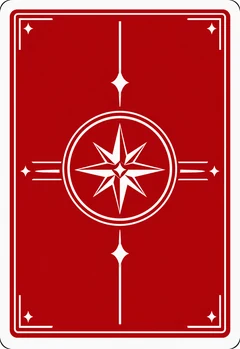
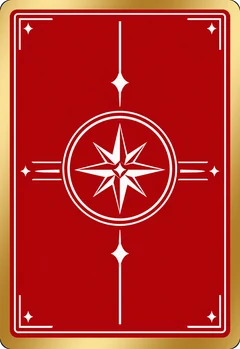
Gold card frames, black card fronts, artwork in the 100-player grid
- Card back: outer white frame recoloured to a metallic gold gradient
  (flood fill from the edge, so inner ornaments stay white);
  scripts/gold-card-back.py regenerates the asset
- Card fronts: black face with a gold gradient frame, ivory ink for
  spades/clubs, brighter red for hearts/diamonds, gold J/Q/K letters
- Arena tiles show the new card back on their mini cards

Claude-Session: https://claude.ai/code/session_01T5Gb8y2puC6CRhvBP3Cwhj

Changed region(s): [[0.0, 0.0, 1.0, 1.0]]

diff --git a/src/styles.css b/src/styles.css
@@ -7,8 +7,11 @@
   --gold: #f5c84c;
   --red: #d8323c;
   --cyan: #4fd6ff;
-  --card-face: #fbfaf5;
-  --card-ink: #16181d;
+  /* Card fronts: black face, gold frame (matches the back's frame), light ink. */
+  --card-face: #0c0c0e;
+  --card-ink: #f3ecda;
+  --card-red: #ff4b57;
+  --gold-frame: linear-gradient(135deg, #fae296 0%, #b07e26 30%, #f6d27a 55%, #a8781f 80%, #f2d48a 100%);
   /* Five board cards + gaps must fit a 320px wide screen. */
   --cw: min(16.5vw, 74px, 9.5dvh);
   --ch: calc(var(--cw) * 1.4);
@@ -368,12 +371,22 @@ body {
 .card-front {
   /* Shows when .card-inner is at rotateY(180deg). */
   transform: rotateY(180deg);
-  background: var(--card-face);
+  border: calc(var(--cw) * 0.045) solid transparent;
+  background:
+    radial-gradient(ellipse at 50% 35%, #1c1c20, var(--card-face) 70%) padding-box,
+    var(--gold-frame) border-box;
   color: var(--card-ink);
   visibility: hidden;
 }
 .card-front.is-red {
-  color: var(--red);
+  color: var(--card-red);
+}
+.card-front .pip.face {
+  /* J / Q / K letters in gold. */
+  background: var(--gold-frame);
+  -webkit-background-clip: text;
+  background-clip: text;
+  color: transparent;
 }
 .corner {
   position: absolute;
@@ -951,8 +964,7 @@ body {
   width: 22%;
   height: 34%;
   border-radius: 1.5px;
-  background: #b3212c;
-  box-shadow: 0 0 0 1px #fbfaf5;
+  background: url('./assets/card-back.webp') center / 100% 100% no-repeat;
 }
 .tile-cards::before {
   left: 26%;

diff --git a/scripts/gold-card-back.py b/scripts/gold-card-back.py
@@ -1,0 +1,38 @@
+"""Make the card back asset: gold outer frame, transparent rounded corners, 240px WebP.
+
+Usage: python3 scripts/gold-card-back.py <source.png> src/assets/card-back.webp <preview.png>
+Needs Pillow and numpy.
+"""
+import sys
+import numpy as np
+from PIL import Image, ImageDraw, ImageFilter
+src, out_webp, out_png = sys.argv[1:4]
+im = Image.open(src).convert('RGB')
+W, H = im.size
+a = np.asarray(im).astype(np.float32)
+R = 42
+# Outer frame = light region connected to the image edge (inner ornaments are separated by red).
+light = ((a.min(axis=2) > 150) * 255).astype(np.uint8)
+corner = Image.new('L', (W, H), 255)
+ImageDraw.Draw(corner).rounded_rectangle([0, 0, W - 1, H - 1], radius=R, fill=0)
+light = np.maximum(light, np.asarray(corner)).copy()
+fill = Image.new('L', (W, H))
+fill.paste(Image.fromarray(light))
+ImageDraw.floodfill(fill, (1, H // 2), 128)
+frame = np.array(fill) == 128
+frame = np.array(Image.fromarray((frame * 255).astype(np.uint8)).filter(ImageFilter.MaxFilter(5))) > 0
+# Metallic gold along the diagonal.
+yy, xx = np.mgrid[0:H, 0:W].astype(np.float32)
+k = 0.5 + 0.5 * np.sin((xx / W * 0.6 + yy / H * 0.4) * np.pi * 4)
+lg = np.array([250, 226, 150], np.float32)
+dg = np.array([176, 126, 38], np.float32)
+gold = dg + (lg - dg) * k[..., None]
+w = np.clip((a[..., 1] - 3) / 247, 0, 1)[..., None]  # whiteness: red ≈ 3, white ≈ 250 in G
+out = np.where(frame[..., None], gold * w + a * (1 - w), a)
+img = Image.fromarray(out.clip(0, 255).astype(np.uint8)).convert('RGBA')
+mask = Image.new('L', (W, H), 0)
+ImageDraw.Draw(mask).rounded_rectangle([0, 0, W - 1, H - 1], radius=R, fill=255)
+img.putalpha(mask)
+img.save(out_png)
+img.resize((240, round(240 * H / W)), Image.LANCZOS).save(out_webp, 'WEBP', quality=88, method=6)
+print('frame px', int(frame.sum()), 'of', W * H)
